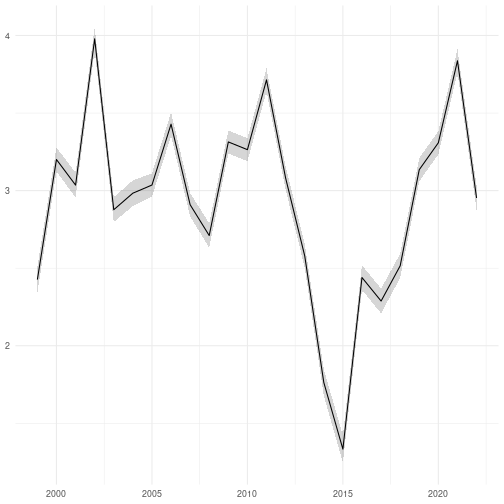
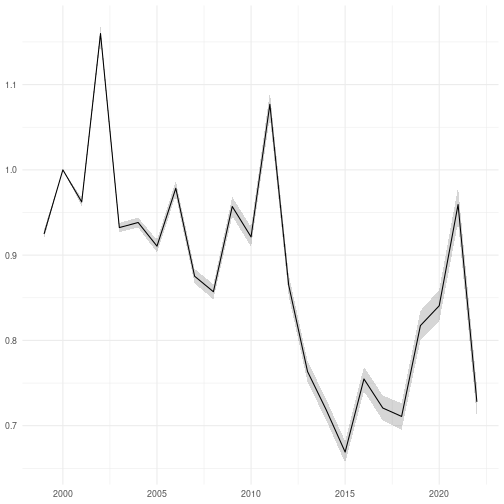
Update overall abundance indicator demo

diff --git a/pkg/docs/dev/articles/overall-abundance.html b/pkg/docs/dev/articles/overall-abundance.html
@@ -120,8 +120,7 @@ Butterfly Abundance) can be calculated in R.</p>
 <span><span class="kw"><a href="https://rdrr.io/r/base/library.html" class="external-link">library</a></span><span class="op">(</span><span class="va"><a href="https://github.com/luomus/finbif" class="external-link">finbif</a></span><span class="op">)</span></span>
 <span><span class="kw"><a href="https://rdrr.io/r/base/library.html" class="external-link">library</a></span><span class="op">(</span><span class="va"><a href="https://ggplot2.tidyverse.org" class="external-link">ggplot2</a></span><span class="op">)</span></span>
 <span><span class="kw"><a href="https://rdrr.io/r/base/library.html" class="external-link">library</a></span><span class="op">(</span><span class="va"><a href="https://lubridate.tidyverse.org" class="external-link">lubridate</a></span><span class="op">)</span></span>
-<span><span class="kw"><a href="https://rdrr.io/r/base/library.html" class="external-link">library</a></span><span class="op">(</span><span class="va"><a href="https://github.com/lme4/lme4/" class="external-link">lme4</a></span><span class="op">)</span></span>
-<span><span class="kw"><a href="https://rdrr.io/r/base/library.html" class="external-link">library</a></span><span class="op">(</span><span class="va"><a href="https://CRAN.R-project.org/package=arm" class="external-link">arm</a></span><span class="op">)</span></span></code></pre></div>
+<span><span class="kw"><a href="https://rdrr.io/r/base/library.html" class="external-link">library</a></span><span class="op">(</span><span class="va"><a href="https://github.com/markvanderloo/rtrim" class="external-link">rtrim</a></span><span class="op">)</span></span></code></pre></div>
 </div>
 <div class="section level3">
 <h3 id="survey-data">Survey data<a class="anchor" aria-label="anchor" href="#survey-data"></a>
@@ -209,28 +208,18 @@ together; amd sum over the counts for each site-year combination.</p>
 <div class="section level2">
 <h2 id="create-index">Create Index<a class="anchor" aria-label="anchor" href="#create-index"></a>
 </h2>
-<p>A index of total abundance for each year is created by fitting a
-generalised linear mixed effects regression model to the combined
-data.</p>
+<p>An index of total abundance for each year is created by fitting a
+TRIM model to the combined data and setting the base year to the year
+2000.</p>
 <div class="sourceCode" id="cb12"><pre class="downlit sourceCode r">
-<code class="sourceCode R"><span><span class="va">model</span> <span class="op">&lt;-</span> <span class="fu"><a href="https://rdrr.io/pkg/lme4/man/glmer.html" class="external-link">glmer</a></span><span class="op">(</span></span>
-<span>  <span class="va">abundance</span> <span class="op">~</span> <span class="op">(</span><span class="fl">1</span> <span class="op">|</span> <span class="va">location_id</span><span class="op">)</span> <span class="op">+</span> <span class="op">(</span><span class="fl">1</span> <span class="op">|</span> <span class="va">year</span><span class="op">)</span>, <span class="va">counts</span>, family <span class="op">=</span> <span class="st">"poisson"</span></span>
-<span><span class="op">)</span></span>
+<code class="sourceCode R"><span><span class="va">model</span> <span class="op">&lt;-</span> <span class="fu"><a href="https://rdrr.io/pkg/rtrim/man/trim.html" class="external-link">trim</a></span><span class="op">(</span><span class="va">abundance</span> <span class="op">~</span> <span class="va">location_id</span> <span class="op">+</span> <span class="va">year</span>, <span class="va">counts</span><span class="op">)</span></span>
 <span></span>
-<span><span class="va">index</span> <span class="op">&lt;-</span> <span class="fu"><a href="https://rdrr.io/r/base/data.frame.html" class="external-link">data.frame</a></span><span class="op">(</span></span>
-<span>  index <span class="op">=</span> <span class="fu"><a href="https://rdrr.io/r/stats/coef.html" class="external-link">coef</a></span><span class="op">(</span><span class="va">model</span><span class="op">)</span><span class="op">[[</span><span class="st">"year"</span><span class="op">]</span><span class="op">]</span>, se <span class="op">=</span> <span class="fu"><a href="https://rdrr.io/pkg/arm/man/se.coef.html" class="external-link">se.coef</a></span><span class="op">(</span><span class="va">model</span><span class="op">)</span><span class="op">[[</span><span class="st">"year"</span><span class="op">]</span><span class="op">]</span></span>
-<span><span class="op">)</span></span>
-<span></span>
-<span><span class="va">index</span><span class="op">[[</span><span class="st">"time"</span><span class="op">]</span><span class="op">]</span> <span class="op">&lt;-</span> <span class="fu"><a href="https://rdrr.io/r/base/integer.html" class="external-link">as.integer</a></span><span class="op">(</span><span class="fu"><a href="https://rdrr.io/r/base/row.names.html" class="external-link">row.names</a></span><span class="op">(</span><span class="va">index</span><span class="op">)</span><span class="op">)</span></span>
-<span></span>
-<span><span class="fu"><a href="https://rdrr.io/r/base/names.html" class="external-link">names</a></span><span class="op">(</span><span class="va">index</span><span class="op">)</span> <span class="op">&lt;-</span> <span class="fu"><a href="https://rdrr.io/r/base/c.html" class="external-link">c</a></span><span class="op">(</span><span class="st">"index"</span>, <span class="st">"se"</span>, <span class="st">"time"</span><span class="op">)</span></span></code></pre></div>
+<span><span class="va">index</span> <span class="op">&lt;-</span> <span class="fu"><a href="https://rdrr.io/pkg/rtrim/man/index.html" class="external-link">index</a></span><span class="op">(</span><span class="va">model</span>, base <span class="op">=</span> <span class="fl">2000</span><span class="op">)</span></span></code></pre></div>
 <div class="sourceCode" id="cb13"><pre class="downlit sourceCode r">
 <code class="sourceCode R"><span><span class="fu"><a href="https://ggplot2.tidyverse.org/reference/ggplot.html" class="external-link">ggplot</a></span><span class="op">(</span><span class="va">index</span><span class="op">)</span> <span class="op">+</span></span>
 <span><span class="fu"><a href="https://ggplot2.tidyverse.org/reference/aes.html" class="external-link">aes</a></span><span class="op">(</span></span>
-<span>  x <span class="op">=</span> <span class="fu"><a href="https://lubridate.tidyverse.org/reference/parse_date_time.html" class="external-link">parse_date_time</a></span><span class="op">(</span><span class="va">time</span>, <span class="st">"Y"</span><span class="op">)</span>,</span>
-<span>  y <span class="op">=</span> <span class="va">index</span>,</span>
-<span>  ymin <span class="op">=</span> <span class="va">index</span> <span class="op">-</span> <span class="va">se</span>,</span>
-<span>  ymax <span class="op">=</span> <span class="va">index</span> <span class="op">+</span> <span class="va">se</span></span>
+<span>  x <span class="op">=</span> <span class="fu"><a href="https://lubridate.tidyverse.org/reference/parse_date_time.html" class="external-link">parse_date_time</a></span><span class="op">(</span><span class="va">time</span>, <span class="st">"Y"</span><span class="op">)</span>, y <span class="op">=</span> <span class="va">imputed</span>,</span>
+<span>  ymin <span class="op">=</span> <span class="va">imputed</span> <span class="op">-</span> <span class="va">se_imp</span>, ymax <span class="op">=</span> <span class="va">imputed</span> <span class="op">+</span> <span class="va">se_imp</span></span>
 <span><span class="op">)</span> <span class="op">+</span></span>
 <span><span class="fu"><a href="https://ggplot2.tidyverse.org/reference/geom_ribbon.html" class="external-link">geom_ribbon</a></span><span class="op">(</span>alpha <span class="op">=</span> <span class="fl">.2</span><span class="op">)</span> <span class="op">+</span></span>
 <span><span class="fu"><a href="https://ggplot2.tidyverse.org/reference/geom_path.html" class="external-link">geom_line</a></span><span class="op">(</span><span class="op">)</span> <span class="op">+</span></span>
